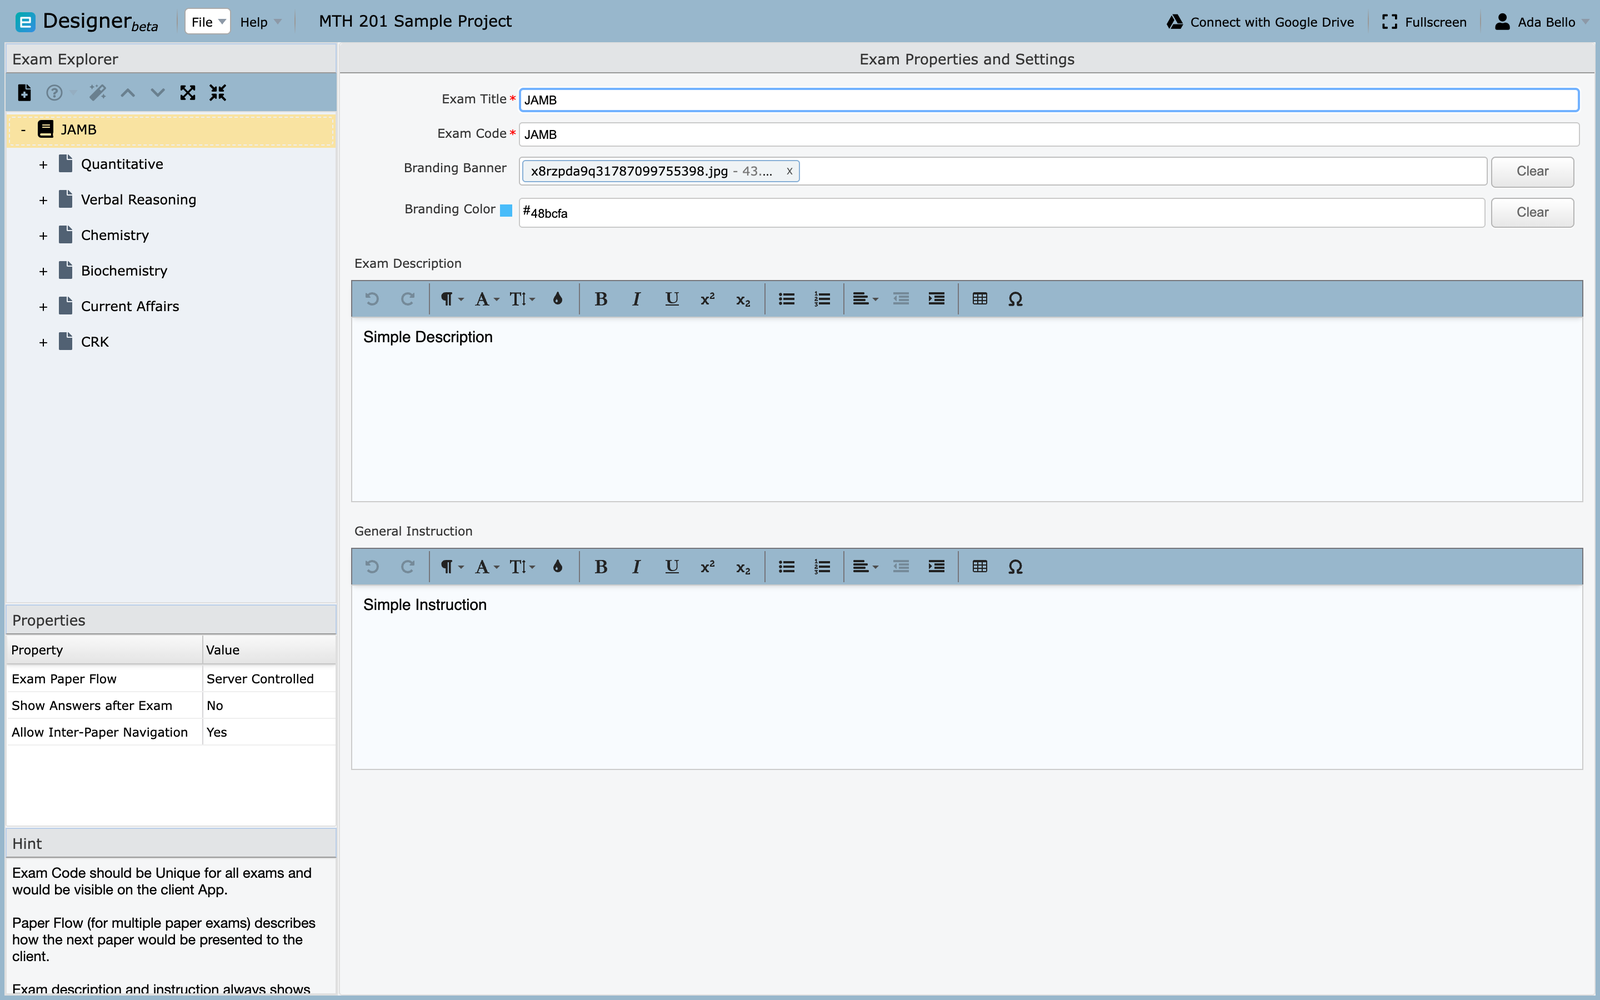
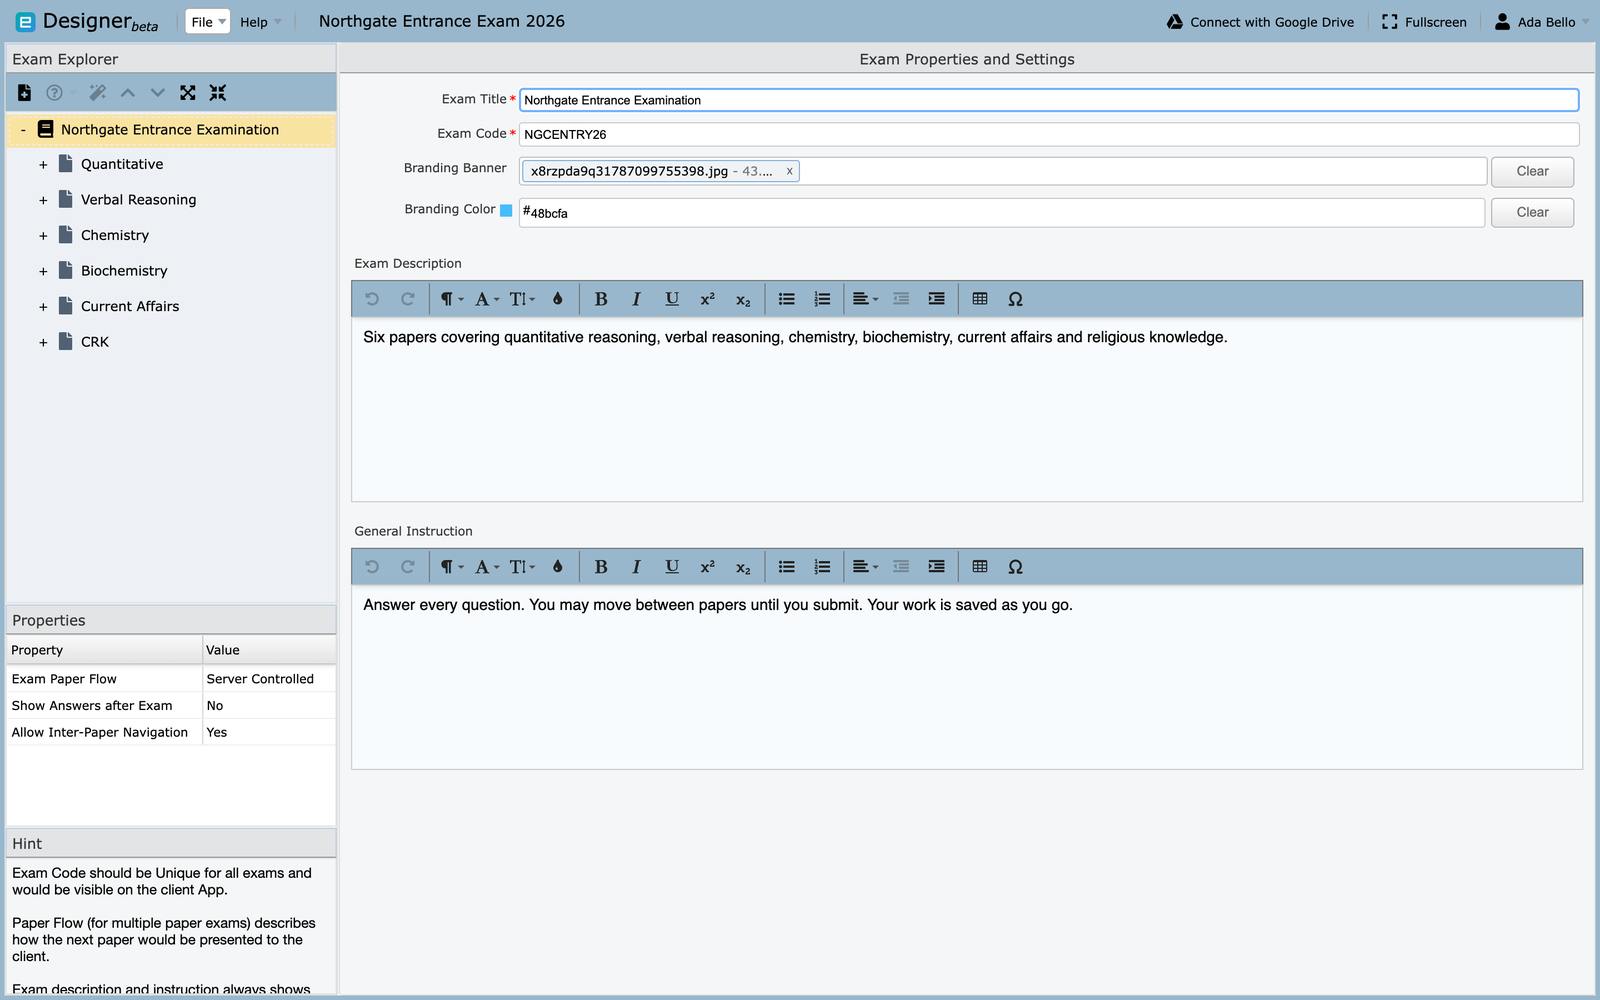
Tell one story across the Designer screenshots
The screenshots showed a project called "MTH 201 Sample Project"
containing an exam called "JAMB", while the text used a third name. I
made that mess: when I repackaged the sample I renamed the project and
left the exam alone. An exam named after a mathematics course holding
chemistry, biochemistry and religious knowledge papers did not help
either.

There is now one sample throughout. The organization is Northgate
College, the project is Northgate Entrance Exam 2026, the exam is
Northgate Entrance Examination with the code NGCENTRY26, and six mixed
subject papers make sense for an entrance paper. Every screenshot is
retaken against it, and the pages say which sample they are showing so
a reader can tell the difference between an example and a rule.

The sample carried "Simple Description" and "Simple Instruction" from
the file it came from, which reads as unfinished in a screenshot people
are being asked to copy. Both now hold text worth imitating, and the
page explains what belongs in each field: what the exam covers, and the
rules of the room that apply across every paper.

The instruction most worth writing is the one that is usually missing,
which is what to do when the connection drops. A candidate who knows
they can rejoin will rejoin.

diff --git a/docs/user-guides/designer/exam.md b/docs/user-guides/designer/exam.md
@@ -15,7 +15,13 @@ worth being deliberate here rather than filling it in to get past the screen.
 ## Exam title
 
 The name the examinee sees while sitting the exam. Write it the way you would
-print it on a paper: *MTH 201 Fall Examination*, not *mth201-final-v2*.
+print it on a paper: *Northgate Entrance Examination*, not *entrance-final-v2*.
+
+!!! note "About the examples"
+    The screenshots throughout the Designer pages use one sample project,
+    **Northgate Entrance Exam 2026**, containing a single exam called
+    *Northgate Entrance Examination* with six papers. Where this guide names a
+    field's value, it is the value visible in that sample.
 
 ## Exam code
 
@@ -30,11 +36,12 @@ Two rules the field enforces:
 - **No spaces**
 - **Letters and numbers only** — no punctuation, dashes or underscores
 
-`MTH201FALL` is fine. `MTH 201` and `MTH-201` are not.
+`NGCENTRY26` is fine, and is the code used in the sample. `NGC ENTRY 26` and
+`NGC-ENTRY-26` are not.
 
 !!! tip "Decide a scheme before your second exam, not your twentieth"
     Something like `SUBJECT` + `YEAR` + `SITTING` stays readable and stays
-    unique: `MTH201F26`, `CHM104M26`. Retrofitting a scheme means re-importing
+    unique: `NGCENTRY26`, `NGCMOCK26`. Retrofitting a scheme means re-importing
     exams that are already in use.
 
 ## Branding banner and colour
@@ -48,18 +55,56 @@ either without affecting the other.
 
 ## Description
 
-Shown to the examinee before they begin. Say what the exam is and what it
-covers — this is the first thing a nervous candidate reads, so plain language
-serves better than formal wording.
+Shown to the examinee before they begin, and the first thing a nervous candidate
+reads. Say what the exam **is** and what it **covers**, in plain language.
+
+Useful things to put here:
+
+- what the exam is for — entrance, end of module, practice
+- which subjects or topics it covers, and how many papers
+- roughly how long the whole sitting takes
+- what a pass means, if that is decided in advance
+
+The sample uses:
+
+> Six papers covering quantitative reasoning, verbal reasoning, chemistry,
+> biochemistry, current affairs and religious knowledge.
+
+Avoid restating the exam title, and avoid internal references like version
+numbers or committee codes. The candidate cannot act on those.
 
 ## General instruction
 
-Also shown before the exam starts, and the right place for rules that apply
-across every paper: whether materials are permitted, what happens if the
-connection drops, how to raise a problem.
+Also shown before the exam starts. This is for the rules of the room: things a
+candidate needs to know to sit the exam properly, applying across **every**
+paper.
 
-Per-paper instructions belong on [the paper](paper.md) instead. Anything
-repeated on every paper belongs here.
+Useful things to put here:
+
+- whether they must answer every question, or may choose
+- whether they can move between papers, and whether they can return
+- what is permitted — calculator, notes, scratch paper
+- what happens if the connection drops or the browser closes
+- how to report a problem during the exam
+- whether the work is saved as they go
+
+The sample uses:
+
+> Answer every question. You may move between papers until you submit. Your work
+> is saved as you go.
+
+That last sentence does more than it looks: candidates who do not know their
+answers are being saved will avoid navigating, and will spend the exam anxious
+about losing work.
+
+!!! tip "Say what happens when things go wrong"
+    The instruction most worth including is the one nobody writes: what to do if
+    the connection drops. A candidate who knows they can rejoin will rejoin. One
+    who does not may give up.
+
+Per-paper instructions belong on [the paper](paper.md) instead — timing,
+question choice, and anything that applies to one subject only. Anything you
+would otherwise repeat on every paper belongs here.
 
 ## Exam paper flow
 

diff --git a/docs/user-guides/designer/introduction.md b/docs/user-guides/designer/introduction.md
@@ -68,7 +68,11 @@ menu is not a fault.
     Export the exam from the version that created it, or ask whoever sent it to
     save from a matching version.
 
-![A project open, with its exam in Exam Explorer](../../assets/images/designer/project-loaded.png)
+![The sample project open, with its exam in Exam Explorer](../../assets/images/designer/project-loaded.png)
+
+The screenshots in these pages use one sample throughout: a project named
+**Northgate Entrance Exam 2026** holding a single exam, *Northgate Entrance
+Examination*, split into six papers.
 
 ## The shape of an exam
 
